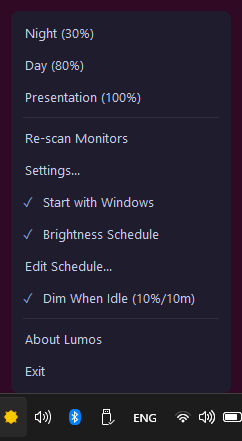
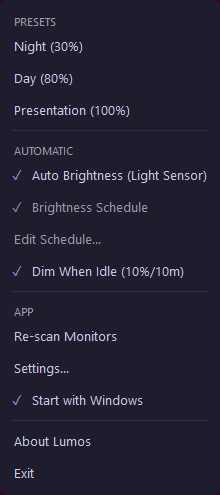
docs: new screenshots for the popup panel, the menu groups, Settings and the Home Assistant window

diff --git a/README.md b/README.md
@@ -58,11 +58,13 @@ Windows can dim a laptop panel, but it will not touch the brightness of external
 ## Screenshots
 
 <p align="center">
-  <img src="screenshots/01-popup.png" width="320" alt="Brightness popup: a slider and a maximum for each monitor, and the All Monitors slider" />
+  <img src="screenshots/01-popup.png" width="320" alt="Brightness popup: a slider and a maximum for each monitor, the All Monitors slider, and the auto brightness panel with the light sensor reading and the learned curve" />
   &nbsp;&nbsp;
-  <img src="screenshots/02-context-menu.png" width="242" alt="Dark context menu: presets, re-scan, Settings, autostart, schedule, idle dim, About" />
+  <img src="screenshots/02-context-menu.png" width="220" alt="Dark context menu in three groups: presets; auto brightness, schedule and idle dim; re-scan, Settings and autostart; then About and Exit" />
 </p>
 <p align="center">
+  <img src="screenshots/04-settings.png" width="280" alt="Settings window with sections for general settings, hotkeys, idle dim, schedule, Home Assistant, monitor minimums and presets" />
+  &nbsp;&nbsp;
   <img src="screenshots/03-osd.png" width="248" alt="On-screen display overlay with percentage and progress bar" />
 </p>
 
@@ -152,6 +154,10 @@ If you run [Home Assistant](https://www.home-assistant.io/) and have an illumina
 3. Enter the address of your server (for example `https://homeassistant.local:8123`) and paste the token, then press **Connect**.
 4. Lumos lists every sensor whose device class is illuminance, with its area and its current reading. Choose the sensor in the room of this PC and press **Save**.
 5. Turn on **Auto brightness** in Settings, or choose **Auto Brightness (Light Sensor)** in the tray menu. That menu item appears once a sensor is chosen.
+
+<p align="center">
+  <img src="screenshots/05-home-assistant.png" width="400" alt="Home Assistant window: the server address, the access token field, and the list of illuminance sensors with their areas and readings" />
+</p>
 
 The Home Assistant window stays open when you click elsewhere, so you can copy the token from a browser. Cancel, Save and `Esc` close it.
 
